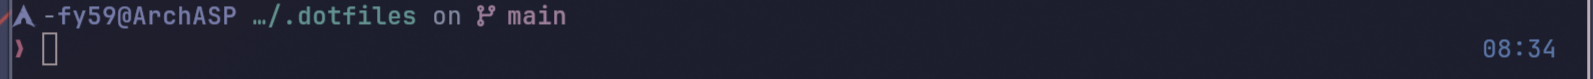
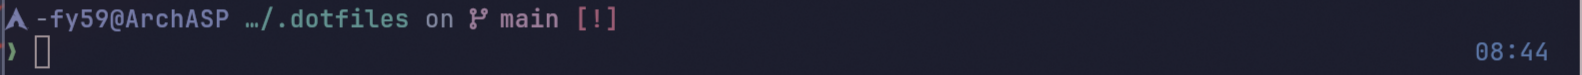
README.md

Changed region(s): [[0.0, 0.0, 0.4027, 1.0], [0.9292, 0.0, 1.0, 1.0]]

diff --git a/README.md b/README.md
@@ -153,7 +153,7 @@ This ensures a consistent Catppuccin Mocha look across desktops, apps and widget
 ## Yazi: `.config/yazi`
 
 <p align="center">
-    <img src=https:https://git.labfytools.com/fy59/Dotfiles_ArchAP/raw/branch/main/.assets/yazi.jpg width="600" alt="screenshot">
+    <img src=https://git.labfytools.com/fy59/Dotfiles_ArchAP/raw/branch/main/.assets/yazi.jpg width="600" alt="screenshot">
     </img>
 </p>
 
